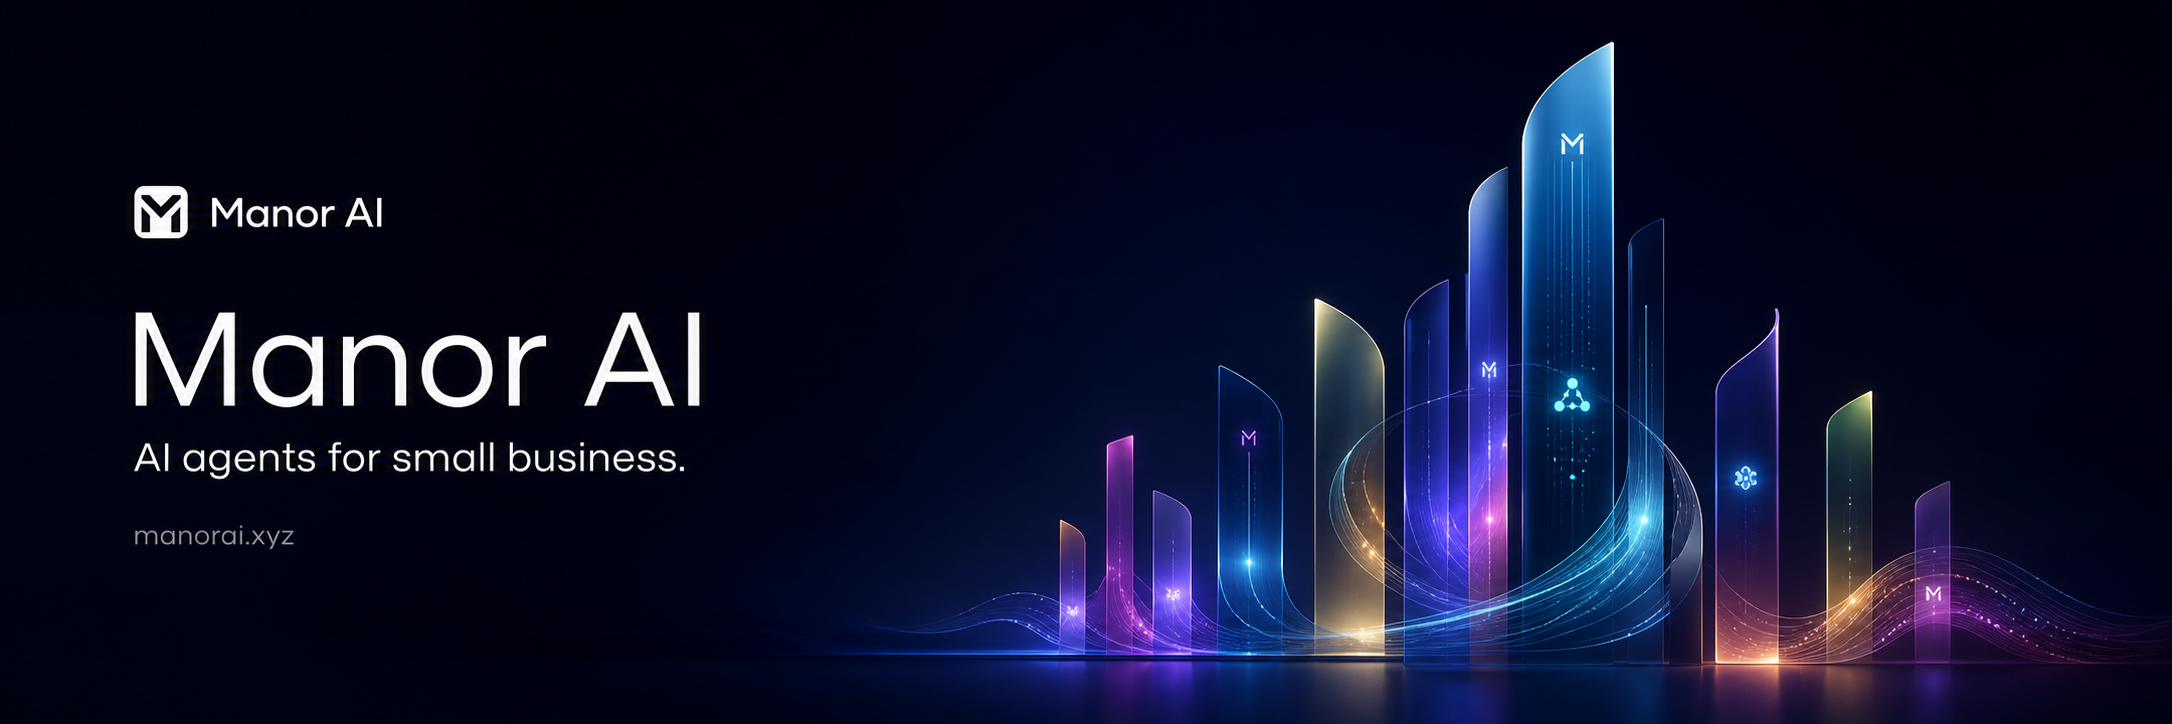
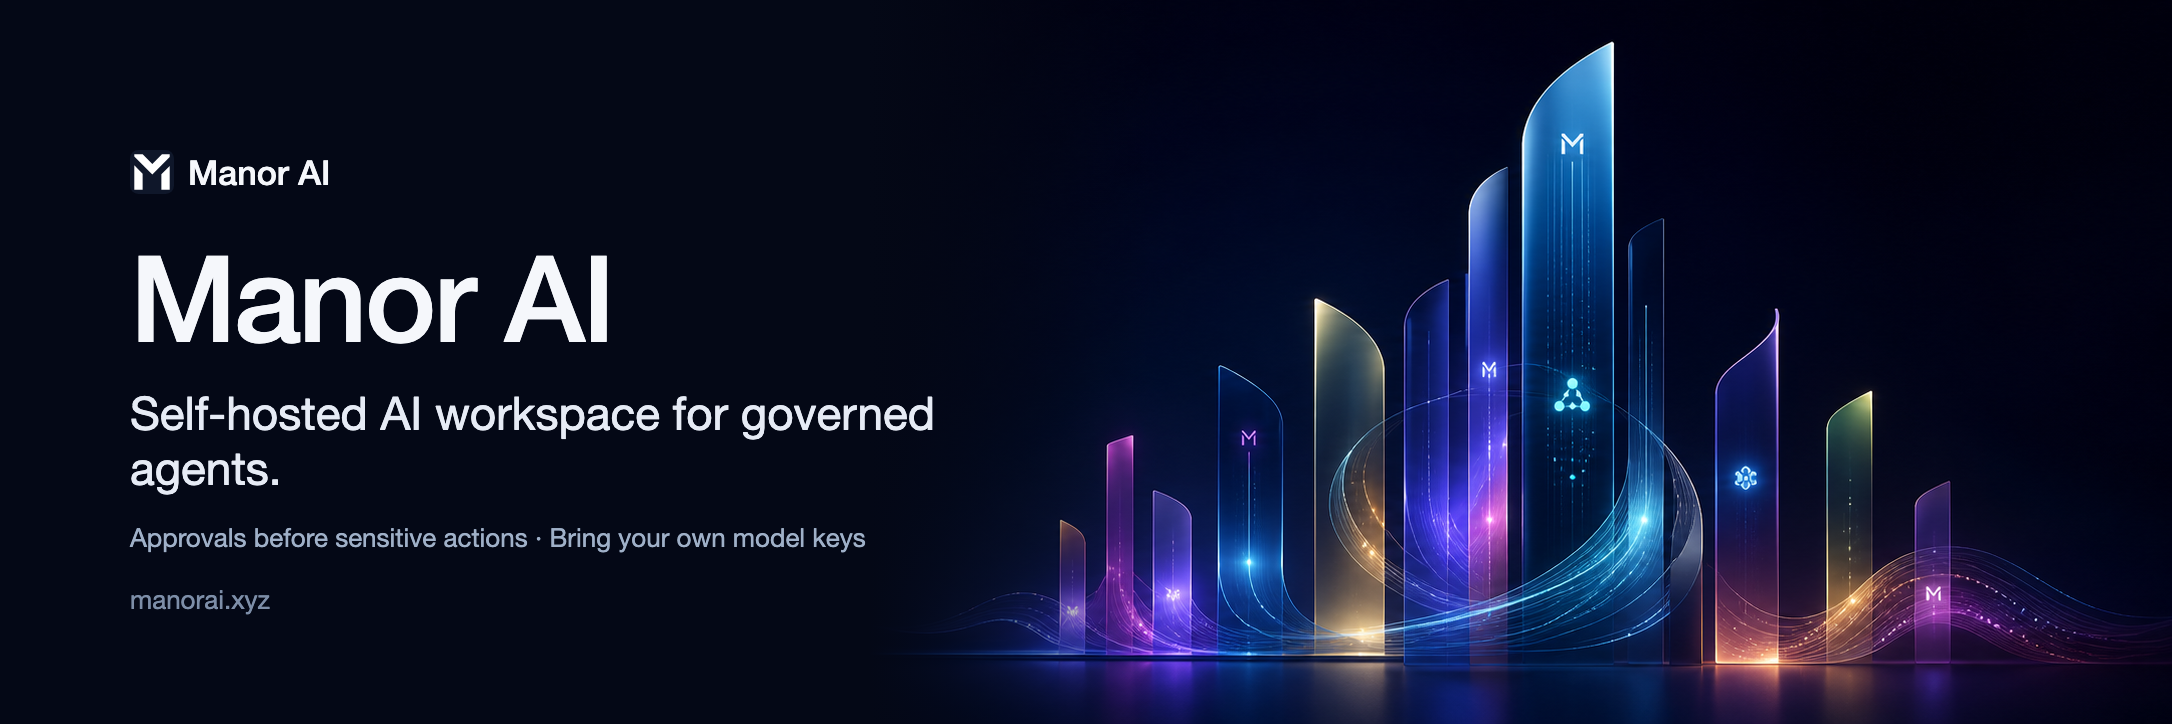
chore: sync verified OSS snapshot
Source-Commit: 1ae5ab5e995e6778f76bb6effcb87e5e6d03ee75
skip-checks: true

diff --git a/apps/api/main.py b/apps/api/main.py
@@ -556,7 +556,7 @@ def create_app() -> FastAPI:
     app = FastAPI(
         title="Manor AI",
         description="The AI operating system for autonomous enterprise management",
-        version="0.2.0",
+        version="0.2.1",
         docs_url=None if cloud_mode else "/api/docs",
         redoc_url=None if cloud_mode else "/api/redoc",
         openapi_url=None if cloud_mode else "/api/openapi.json",

diff --git a/apps/api/middleware_core.py b/apps/api/middleware_core.py
@@ -164,7 +164,7 @@ class RequestIDMiddleware(BaseHTTPMiddleware):
 
             response = await call_next(request)
             response.headers["X-Request-ID"] = rid
-            response.headers["X-API-Version"] = "0.2.0"
+            response.headers["X-API-Version"] = "0.2.1"
             return response
         finally:
             database_request_id.reset(token)

diff --git a/tests/test_health.py b/tests/test_health.py
@@ -159,7 +159,7 @@ async def test_system_info(client):
     data = resp.json()
     assert "system" in data
     system = data["system"]
-    assert system["version"] == "0.2.0"
+    assert system["version"] == "0.2.1"
     assert "uptime_seconds" in system
     assert isinstance(system["uptime_seconds"], int)
     assert system["uptime_seconds"] >= 0

diff --git a/tests/test_openapi.py b/tests/test_openapi.py
@@ -17,7 +17,7 @@ async def test_openapi_schema_accessible(client: AsyncClient):
     assert response.status_code == 200
     schema = response.json()
     assert schema["info"]["title"] == "Manor AI"
-    assert schema["info"]["version"] == "0.2.0"
+    assert schema["info"]["version"] == "0.2.1"
     assert "paths" in schema
 
 

diff --git a/apps/api/routers/health.py b/apps/api/routers/health.py
@@ -201,7 +201,7 @@ async def deep_health():
     # System info
     uptime_seconds = time.time() - _STARTUP_TIME
     system = {
-        "version": "0.2.0",
+        "version": "0.2.1",
         "python": platform.python_version(),
         "platform": platform.platform(),
         "uptime_seconds": round(uptime_seconds),

diff --git a/docs-site/docs/index.md b/docs-site/docs/index.md
@@ -12,7 +12,7 @@ the seeded workspace, and confirm that governed actions pause for human review.
 
 <img
   src="img/manor-ai-runtime.png"
-  alt="Manor AI workspace runtime showing a running workspace dashboard"
+  alt="Manor AI Tasks board with work items created in a workspace"
 />
 
 ## What this is, briefly
@@ -93,9 +93,8 @@ deployment.
 
 ### 4. Inspect the workspace
 
-Open the workspace view and check the operating score, goals, tasks, documents,
-and agent mappings. The workspace should look like a running system, not an
-empty SDK sample.
+Open Tasks and check the work items your workspace created. Then open Goals to
+see how those tasks connect to the workspace's objectives.
 
 <img
   src="img/manor-ai-goals.png"
@@ -110,7 +109,7 @@ tool runs.
 
 <img
   src="img/manor-ai-governance.png"
-  alt="Manor AI governance rules requiring approval for external messages and blocking destructive actions"
+  alt="Manor AI workspace Needs approval page with rules that ask before sending messages and block deletes"
 />
 
 ## What you'll see at the end

diff --git a/docs-site/i18n/zh-Hans/docusaurus-plugin-content-docs/current/index.md b/docs-site/i18n/zh-Hans/docusaurus-plugin-content-docs/current/index.md
@@ -12,7 +12,7 @@ description: 从克隆仓库到跑起一个 Manor AI 工作区的最短路径。
 
 <img
   src="img/manor-ai-runtime.png"
-  alt="Manor AI 工作区运行时,展示运行中的工作区仪表盘"
+  alt="Manor AI 任务看板，展示工作区创建的任务"
 />
 
 ## 这是什么(简述)
@@ -90,8 +90,7 @@ demo@manor.local / manor-demo
 
 ### 4. 查看工作区
 
-打开工作区视图,查看运行评分、目标、任务、文档和 Agent 映射。工作区看起来
-应该像一个正在运转的系统,而不是空空如也的 SDK 示例。
+打开「任务」查看工作区创建的任务，再打开「目标」查看这些任务如何关联到工作区目标。
 
 <img
   src="img/manor-ai-goals.png"
@@ -105,7 +104,7 @@ demo@manor.local / manor-demo
 
 <img
   src="img/manor-ai-governance.png"
-  alt="Manor AI 治理规则:外部消息需审批,破坏性操作被拦截"
+  alt="Manor AI 工作区的审批设置，展示发送消息前需确认和禁止删除的规则"
 />
 
 ## 完成后你将拥有

diff --git a/CHANGELOG.md b/CHANGELOG.md
@@ -7,6 +7,15 @@ are published from GitHub tags after the OSS export and docs checks pass.
 
 ## Unreleased
 
+## [0.2.1]
+
+- The README and social card now describe Manor AI as a self-hosted AI
+  workspace for governed agents. The screenshots show the Tasks board and the
+  approval rules page, and the Simplified Chinese home page is in sync.
+- Release fixes: the public web build, version checks and the public export
+  boundary pass together. Cloud-only Stripe, Stickman and product-package code
+  stays out of the public tree.
+
 ## [0.2.0]
 
 - Workspaces are the main building surface: Blueprint export, install,
